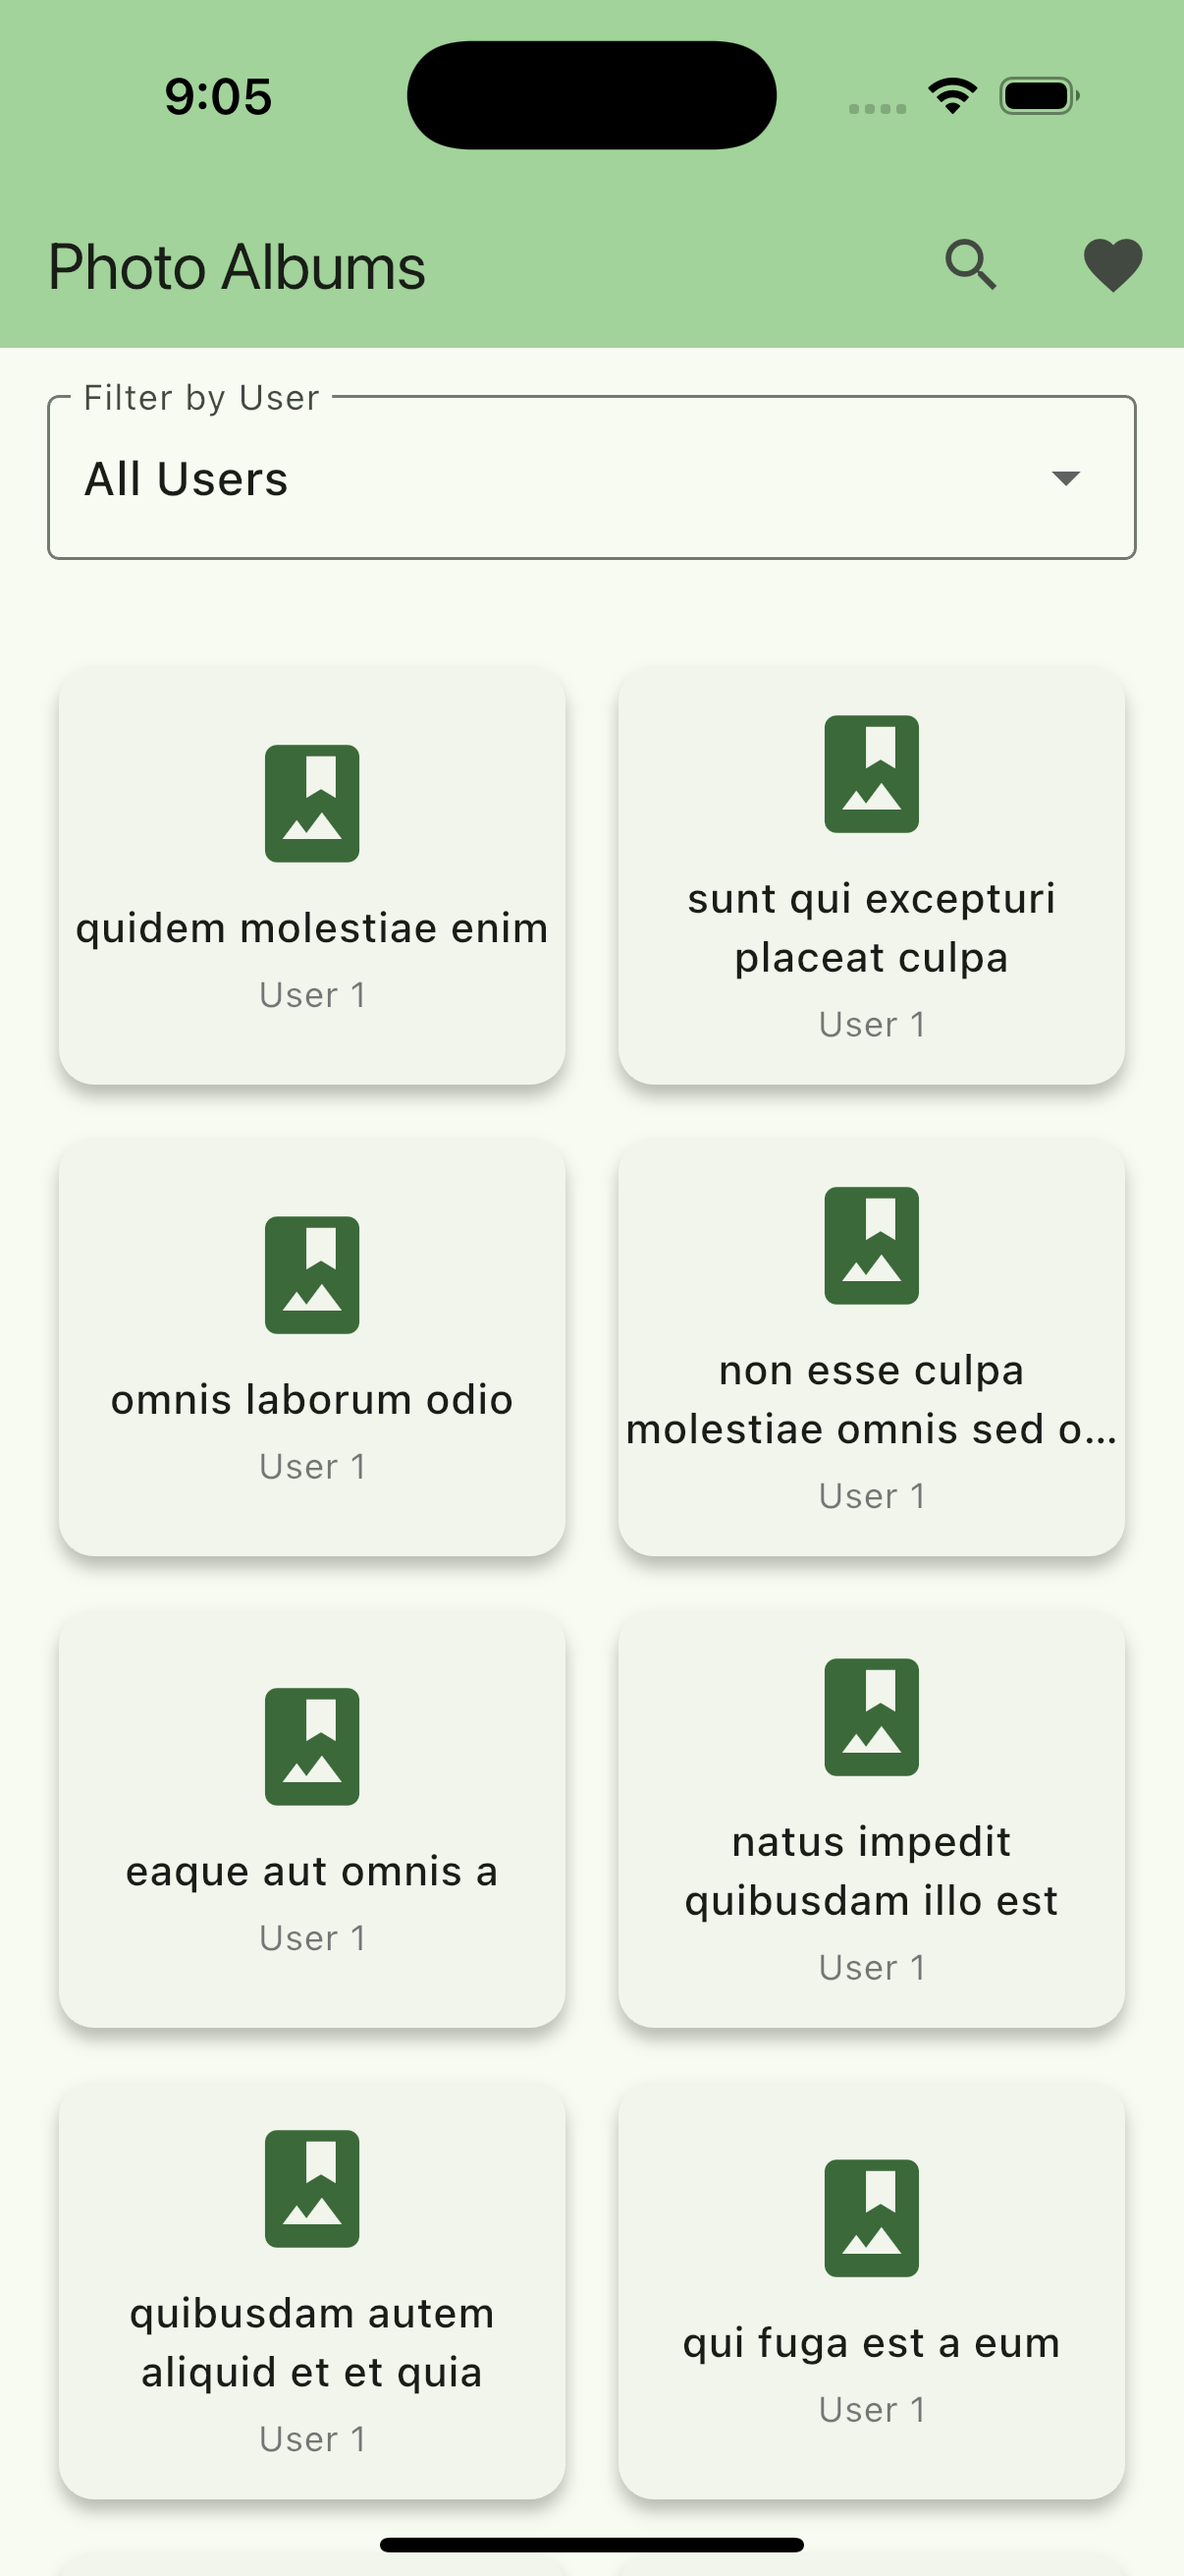
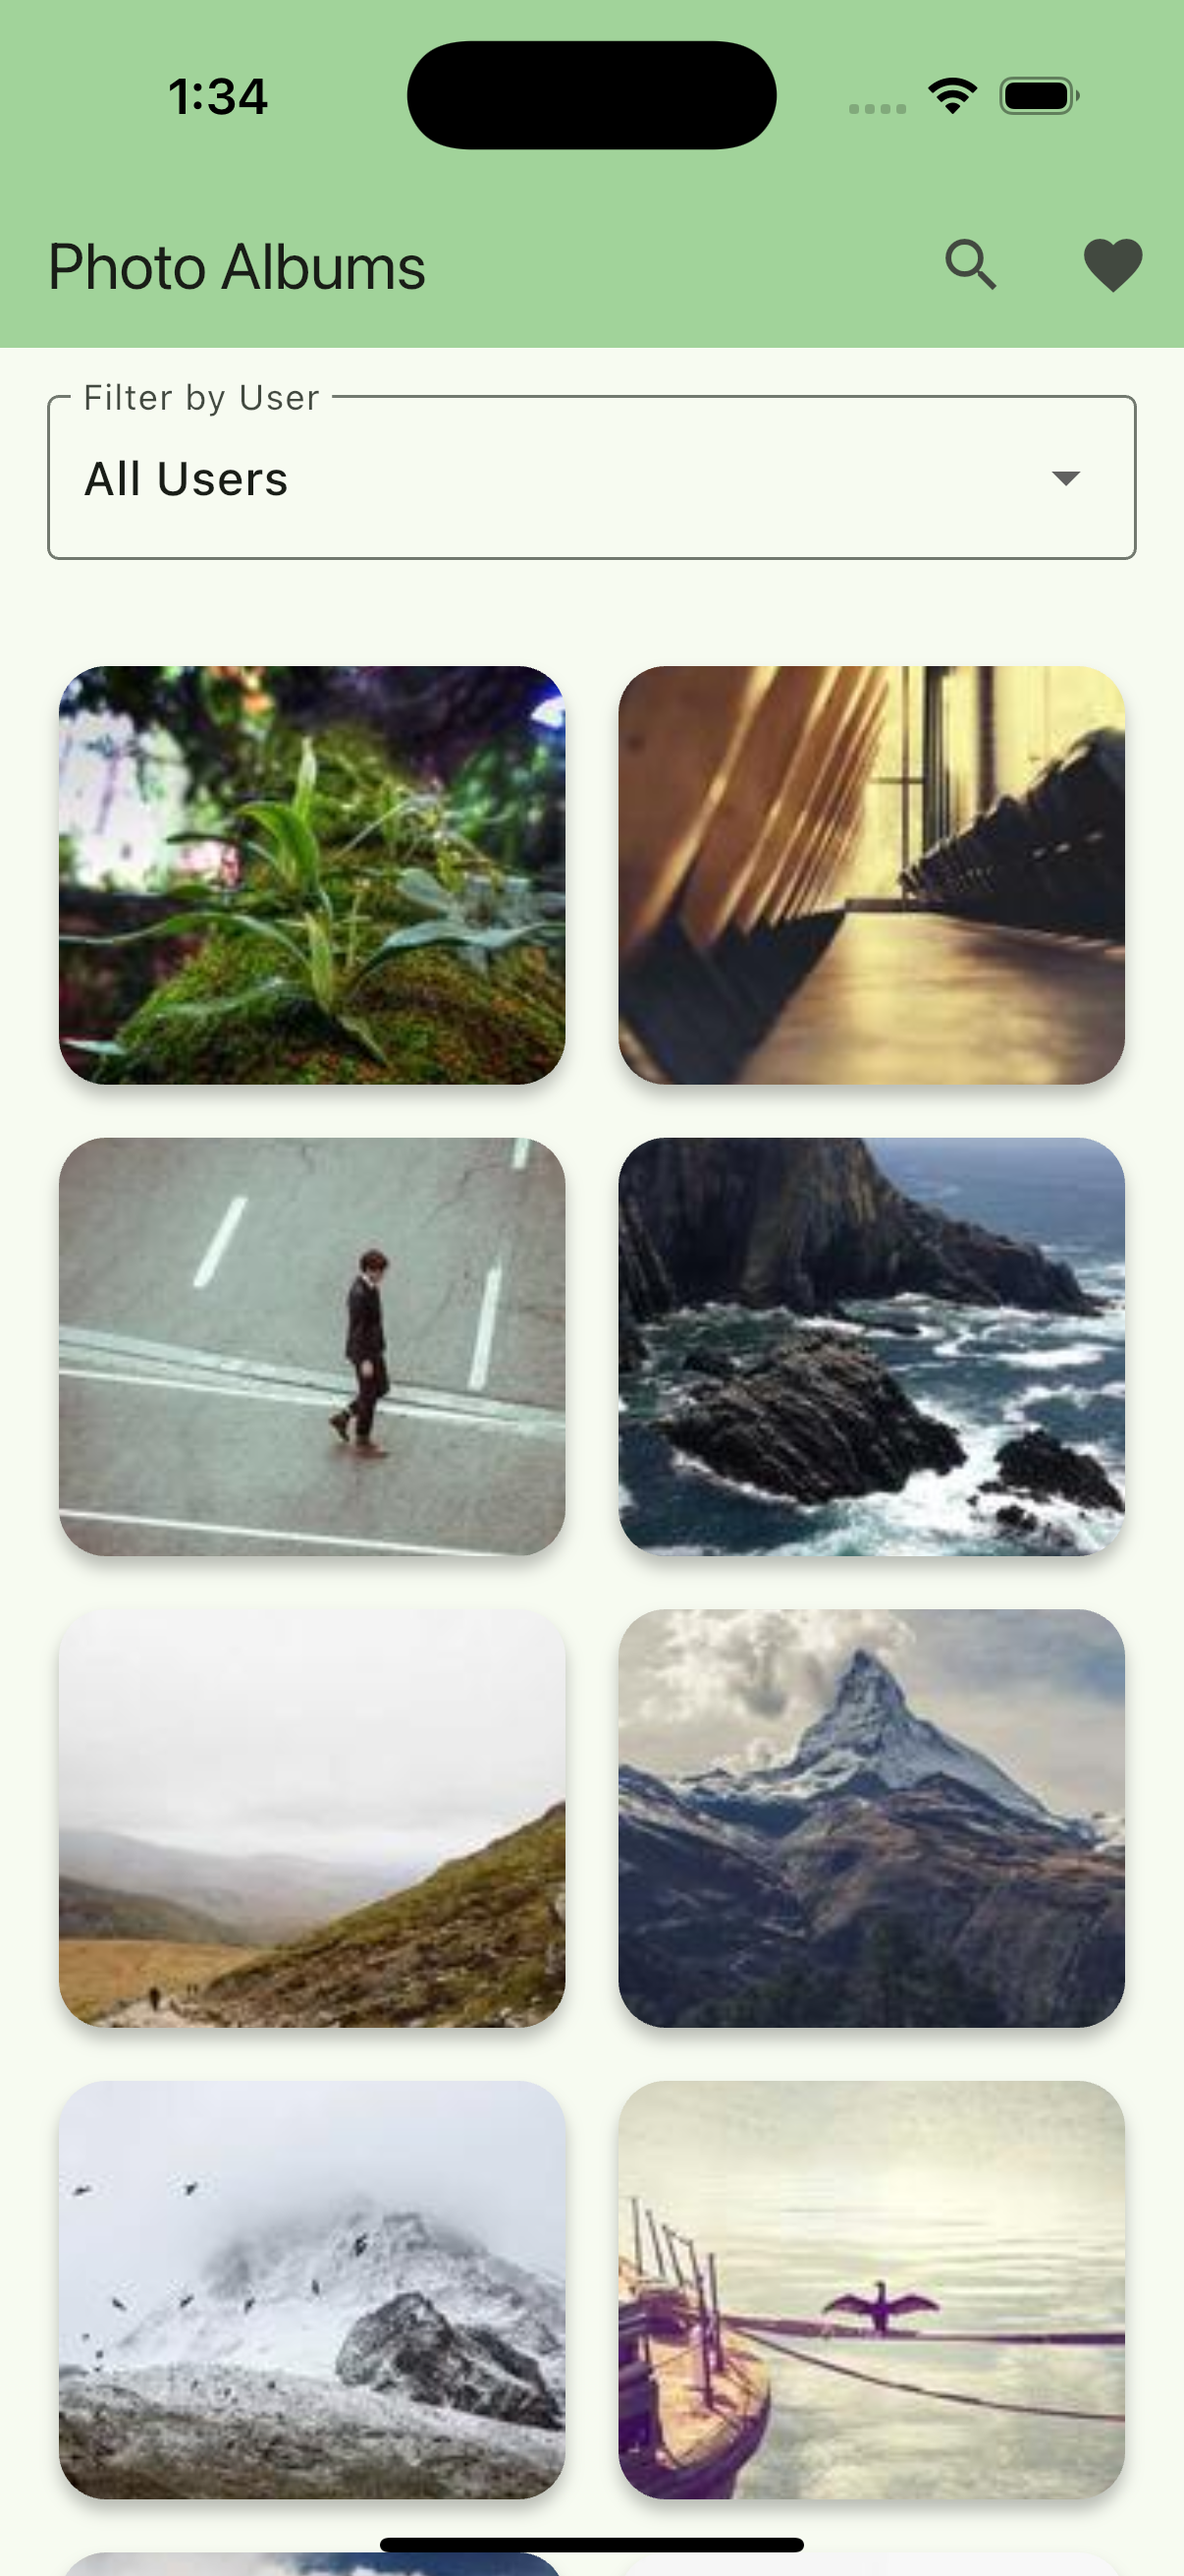
implement album refresh functionality and improve UI with refresh indicator

diff --git a/lib/screens/albums_screen.dart b/lib/screens/albums_screen.dart
@@ -45,68 +45,72 @@ class AlbumsScreen extends ConsumerWidget {
           ),
         ],
       ),
-      body: Column(
-        children: [
-          // User filter dropdown
-          Container(
-            padding: const EdgeInsets.all(16.0),
-            child: usersAsync.when(
-              data: (users) => DropdownButtonFormField<User?>(
-                decoration: const InputDecoration(
-                  labelText: 'Filter by User',
-                  border: OutlineInputBorder(),
+      body: RefreshIndicator(
+        onRefresh: () => ref.read(albumRefreshProvider.notifier).refreshData(),
+        child: Column(
+          children: [
+            // User filter dropdown
+            Container(
+              padding: const EdgeInsets.all(16.0),
+              child: usersAsync.when(
+                data: (users) => DropdownButtonFormField<User?>(
+                  decoration: const InputDecoration(
+                    labelText: 'Filter by User',
+                    border: OutlineInputBorder(),
+                  ),
+                  value: selectedUser,
+                  items: [
+                    const DropdownMenuItem<User?>(
+                      value: null,
+                      child: Text('All Users'),
+                    ),
+                    ...users.map(
+                      (user) =>
+                          DropdownMenuItem(value: user, child: Text(user.name)),
+                    ),
+                  ],
+                  onChanged: (User? user) {
+                    ref.read(selectedUserProvider.notifier).state = user;
+                  },
                 ),
-                value: selectedUser,
-                items: [
-                  const DropdownMenuItem<User?>(
-                    value: null,
-                    child: Text('All Users'),
-                  ),
-                  ...users.map(
-                    (user) =>
-                        DropdownMenuItem(value: user, child: Text(user.name)),
-                  ),
-                ],
-                onChanged: (User? user) {
-                  ref.read(selectedUserProvider.notifier).state = user;
-                },
+                loading: () => const CircularProgressIndicator(),
+                error: (error, stack) => Text('Error loading users: $error'),
               ),
-              loading: () => const CircularProgressIndicator(),
-              error: (error, stack) => Text('Error loading users: $error'),
             ),
-          ),
-          // Albums grid
-          Expanded(
-            child: albumsAsync.when(
-              data: (albums) => GridView.builder(
-                padding: const EdgeInsets.all(16.0),
-                gridDelegate: const SliverGridDelegateWithFixedCrossAxisCount(
-                  crossAxisCount: 2,
-                  crossAxisSpacing: 10,
-                  mainAxisSpacing: 10,
-                  childAspectRatio: 1.2,
-                ),
-                itemCount: albums.length,
-                itemBuilder: (context, index) {
-                  final album = albums[index];
-                  final imageUrl =
-                      'https://picsum.photos/150/150?random=$index';
-                  return Card(
-                    elevation: 4,
-                    child: InkWell(
-                      onTap: () {
-                        Navigator.push(
-                          context,
-                          MaterialPageRoute(
-                            builder: (context) =>
-                                AlbumPhotosScreen(album: album),
-                          ),
-                        );
-                      },
-                      child: Column(
-                        mainAxisAlignment: MainAxisAlignment.center,
-                        children: [
-                          CachedNetworkImage(
+            // Albums grid
+            Expanded(
+              child: albumsAsync.when(
+                data: (albums) => GridView.builder(
+                  padding: const EdgeInsets.all(16.0),
+                  gridDelegate: const SliverGridDelegateWithFixedCrossAxisCount(
+                    crossAxisCount: 2,
+                    crossAxisSpacing: 10,
+                    mainAxisSpacing: 10,
+                    childAspectRatio: 1.2,
+                  ),
+                  itemCount: albums.length,
+                  itemBuilder: (context, index) {
+                    final album = albums[index];
+                    final imageUrl =
+                        'https://picsum.photos/150/150?random=$index';
+                    return Card(
+                      elevation: 4,
+                      shape: RoundedRectangleBorder(
+                        borderRadius: BorderRadius.circular(16),
+                      ),
+                      child: InkWell(
+                        onTap: () {
+                          Navigator.push(
+                            context,
+                            MaterialPageRoute(
+                              builder: (context) =>
+                                  AlbumPhotosScreen(album: album),
+                            ),
+                          );
+                        },
+                        child: ClipRRect(
+                          borderRadius: BorderRadius.circular(16),
+                          child: CachedNetworkImage(
                             imageUrl: imageUrl,
                             fit: BoxFit.cover,
                             placeholder: (context, url) => Container(
@@ -120,42 +124,18 @@ class AlbumsScreen extends ConsumerWidget {
                               child: const Icon(Icons.error),
                             ),
                           ),
-                          // Icon(
-                          //   Icons.photo_album,
-                          //   size: 48,
-                          //   color: Theme.of(context).primaryColor,
-                          // ),
-                          // const SizedBox(height: 8),
-                          // Text(
-                          //   album.title,
-                          //   textAlign: TextAlign.center,
-                          //   style: const TextStyle(
-                          //     fontSize: 14,
-                          //     fontWeight: FontWeight.w500,
-                          //   ),
-                          //   maxLines: 2,
-                          //   overflow: TextOverflow.ellipsis,
-                          // ),
-                          // const SizedBox(height: 4),
-                          // Text(
-                          //   'User ${album.userId}',
-                          //   style: TextStyle(
-                          //     fontSize: 12,
-                          //     color: Colors.grey[600],
-                          //   ),
-                          // ),
-                        ],
+                        ),
                       ),
-                    ),
-                  );
-                },
+                    );
+                  },
+                ),
+                loading: () => const Center(child: CircularProgressIndicator()),
+                error: (error, stack) =>
+                    Center(child: Text('Error loading albums: $error')),
               ),
-              loading: () => const Center(child: CircularProgressIndicator()),
-              error: (error, stack) =>
-                  Center(child: Text('Error loading albums: $error')),
             ),
-          ),
-        ],
+          ],
+        ),
       ),
     );
   }

diff --git a/lib/providers/album_provider.dart b/lib/providers/album_provider.dart
@@ -3,6 +3,32 @@ import 'package:photo_album/model/album.dart';
 import 'package:photo_album/model/user.dart';
 import 'package:photo_album/services/api_service.dart';
 
+class AlbumRefreshNotifier extends StateNotifier<bool> {
+  AlbumRefreshNotifier(this.ref) : super(false);
+  final Ref ref;
+
+  Future<void> refreshData() async {
+    if (state) return;
+    state = true;
+    try {
+      final selectUser = ref.read(selectedUserProvider);
+
+      ref.invalidate(usersProvider);
+
+      if (selectUser != null) {
+        ref.invalidate(albumsByUserProvider(selectUser.id));
+        await ref.read(albumsByUserProvider(selectUser.id).future);
+      } else {
+        ref.invalidate(albumsProvider);
+        await ref.read(albumsProvider.future);
+      }
+      await ref.read(usersProvider.future);
+    } finally {
+      state = false;
+    }
+  }
+}
+
 final albumsProvider = FutureProvider<List<Album>>((ref) async {
   return ApiService.fetchAlbums();
 });
@@ -19,3 +45,9 @@ final albumsByUserProvider = FutureProvider.family<List<Album>, int>((
 });
 
 final selectedUserProvider = StateProvider<User?>((ref) => null);
+
+final albumRefreshProvider = StateNotifierProvider<AlbumRefreshNotifier, bool>((
+  ref,
+) {
+  return AlbumRefreshNotifier(ref);
+});
